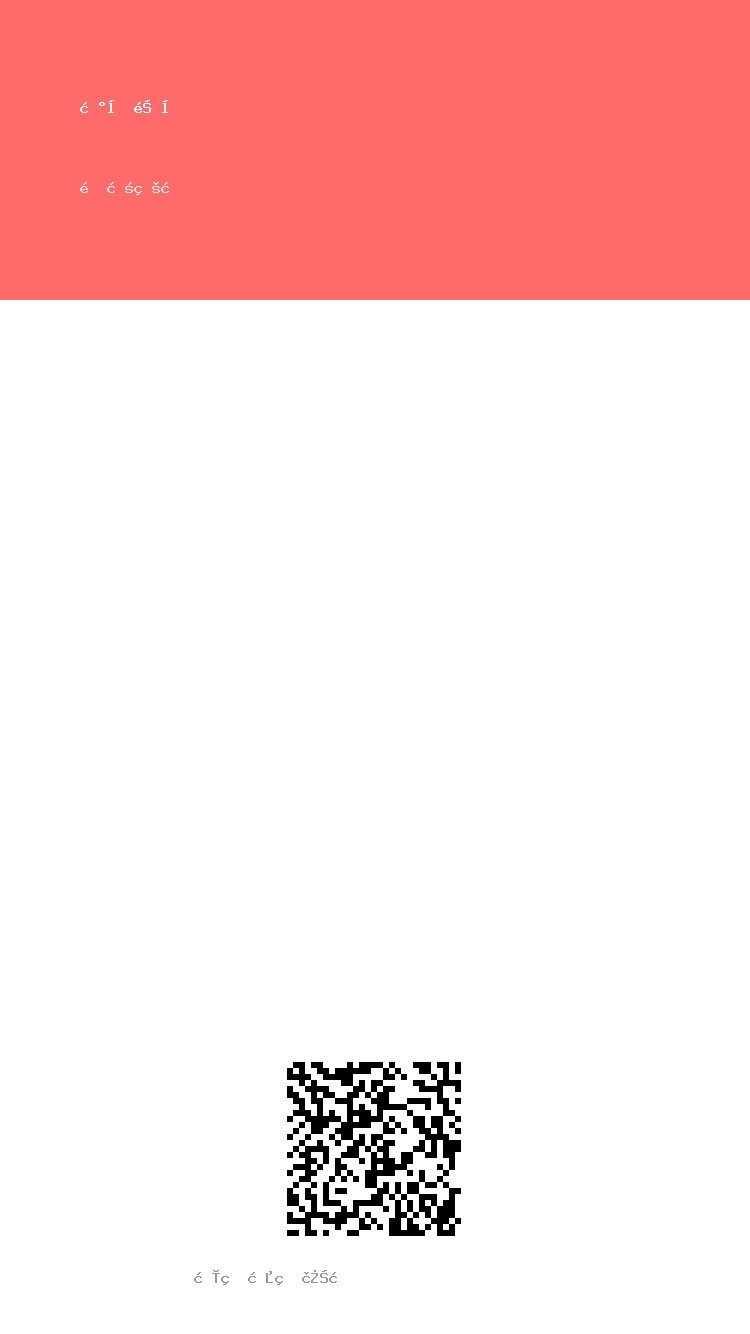
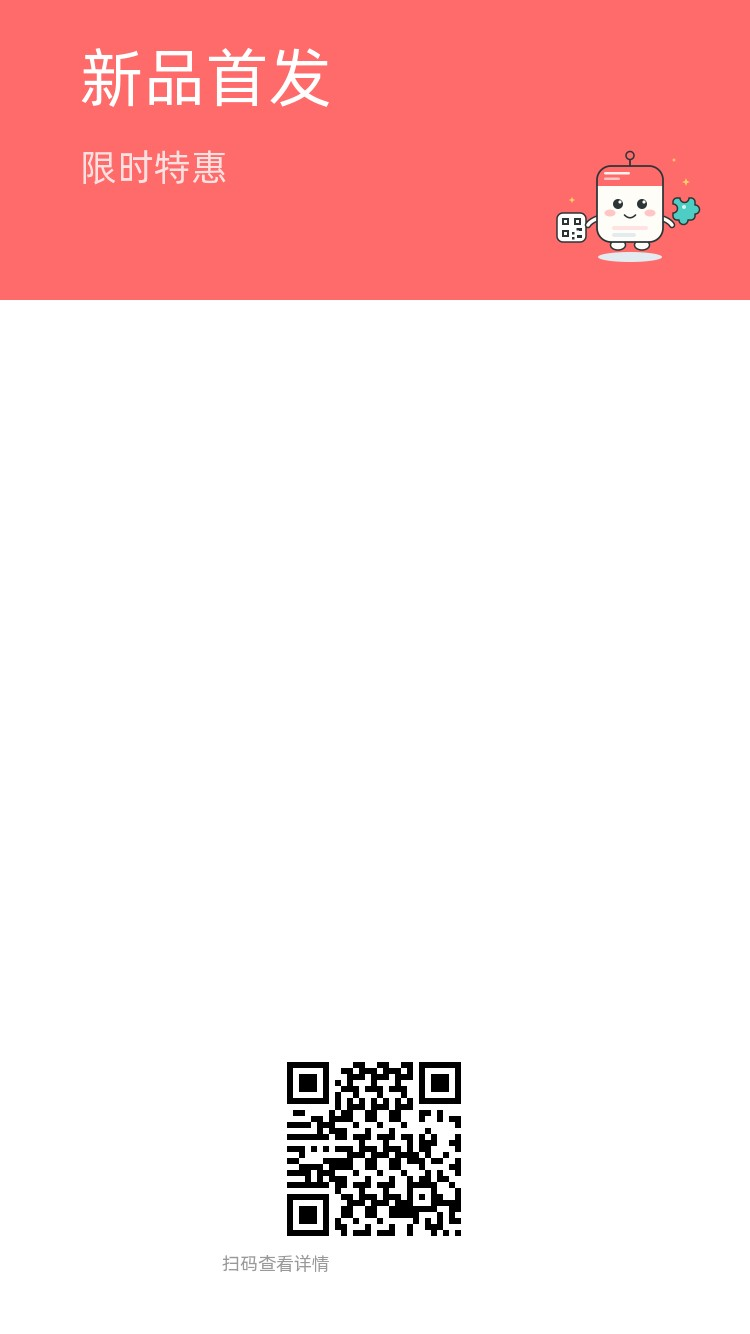
feat: 项目宠物 Posty 随包分发：addPet()、缺图占位图
- assets/pet.svg 与栅格化的 pet.png 随包分发（docs/ 被 export-ignore，放 assets/ 才能进 dist）
- PosterBuilder::addPet() / petPath()：等价 addImage()，也可取路径作二维码 Logo
- AbstractElement::loadImage()：统一缺图回退，配置 poster.placeholder 后
  ImageElement / AvatarElement 会在缺图位置绘制占位图（默认 null，行为不变）
- examples/poster-basic.php 使用 addPet() 并重新生成示例输出

Changed region(s): [[0.3067, 0.7991, 0.6133, 0.9528], [0.092, 0.0307, 0.4293, 0.1537], [0.736, 0.1229, 0.9507, 0.2151]]

diff --git a/tests/Poster/Elements/ImageElementTest.php b/tests/Poster/Elements/ImageElementTest.php
@@ -8,6 +8,7 @@ namespace Erikwang2013\Poster\Tests\Poster\Elements;
 
 use Erikwang2013\Poster\Drivers\ImageDriverInterface;
 use Erikwang2013\Poster\Poster\Elements\ImageElement;
+use Erikwang2013\Poster\PosterConfig;
 use PHPUnit\Framework\TestCase;
 
 class ImageElementTest extends TestCase
@@ -47,5 +48,47 @@ class ImageElementTest extends TestCase
         $el = new ImageElement(['src' => '/img/{{id}}.png']);
         $el->resolve(['id' => '42']);
         $this->assertSame('/img/42.png', $el->toArray()['options']['src']);
+    }
+
+    /** 验证配置占位图后，缺失的 src 回退到占位图，并沿用原尺寸选项 */
+    public function testMissingSourceFallsBackToPlaceholder(): void
+    {
+        $placeholder = $this->tempPng();
+        PosterConfig::merge(['poster' => ['placeholder' => $placeholder]]);
+        try {
+            $canvas = $this->createMock(ImageDriverInterface::class);
+            $canvas->expects($this->once())->method('image')->with(
+                $this->isInstanceOf(ImageDriverInterface::class),
+                6, 7,
+                $this->callback(fn(array $o) => $o['src'] === '/no/such/photo.jpg' && $o['width'] === 120)
+            );
+            (new ImageElement(['src' => '/no/such/photo.jpg', 'x' => 6, 'y' => 7, 'width' => 120]))
+                ->render($canvas);
+        } finally {
+            PosterConfig::reset();
+            unlink($placeholder);
+        }
+    }
+
+    /** 验证占位图本身缺失时仍跳过渲染（不抛错、不调用驱动） */
+    public function testMissingPlaceholderStillRendersNothing(): void
+    {
+        PosterConfig::merge(['poster' => ['placeholder' => '/no/such/placeholder.png']]);
+        try {
+            $canvas = $this->createMock(ImageDriverInterface::class);
+            $canvas->expects($this->never())->method('image');
+            (new ImageElement(['src' => '/no/such/photo.jpg']))->render($canvas);
+        } finally {
+            PosterConfig::reset();
+        }
+    }
+
+    private function tempPng(): string
+    {
+        $path = sys_get_temp_dir() . '/img-el-' . uniqid() . '.png';
+        $img = imagecreatetruecolor(10, 10);
+        imagepng($img, $path);
+        imagedestroy($img);
+        return $path;
     }
 }

diff --git a/src/Poster/Elements/AbstractElement.php b/src/Poster/Elements/AbstractElement.php
@@ -6,6 +6,10 @@
 
 namespace Erikwang2013\Poster\Poster\Elements;
 
+use Erikwang2013\Poster\Drivers\DriverFactory;
+use Erikwang2013\Poster\Drivers\ImageDriverInterface;
+use Erikwang2013\Poster\PosterConfig;
+
 abstract class AbstractElement implements ElementInterface
 {
     protected array $options = [];
@@ -38,5 +42,30 @@ abstract class AbstractElement implements ElementInterface
         return preg_replace_callback('/\{\{\s*(\w+)\s*\}\}/', function ($m) use ($variables) {
             return $variables[$m[1]] ?? $m[0];
         }, $text);
+    }
+
+    /**
+     * 文本字体：未显式指定 font 选项时用配置的 poster.font，显式传 null 则退回驱动内置位图字体。
+     * 自行拼装 text() 选项的元素（表格 / 日历 / 二维码文案 / 艺术字）应走这里，
+     * 否则中英文会落到 GD 内置位图字体而渲染错乱。
+     */
+    protected function font(): ?string
+    {
+        return array_key_exists('font', $this->options)
+            ? $this->options['font']
+            : PosterConfig::get('poster.font');
+    }
+
+    /**
+     * 加载图片文件；文件缺失时回退到 poster.placeholder 配置的占位图
+     * （留空即保持原行为：跳过缺失图片）。占位图也不存在时返回 null。
+     */
+    protected function loadImage(string $src): ?ImageDriverInterface
+    {
+        if (!is_file($src)) {
+            $src = (string) PosterConfig::get('poster.placeholder', '');
+        }
+
+        return is_file($src) ? DriverFactory::create()->load($src) : null;
     }
 }

diff --git a/src/Poster/PosterBuilder.php b/src/Poster/PosterBuilder.php
@@ -55,6 +55,10 @@ class PosterBuilder
 
     public function addText(string $text, array $options = []): static { $this->elements[] = new TextElement(array_merge($options, ['text'=>$text])); return $this; }
     public function addImage(string $src, array $options = []): static { $this->elements[] = new ImageElement(array_merge($options, ['src'=>$src])); return $this; }
+    /** 添加项目宠物 Posty（assets/pet.png），等价于 addImage(self::petPath(), $options) */
+    public function addPet(array $options = []): static { return $this->addImage(self::petPath(), $options); }
+    /** 项目宠物 Posty 图片路径 / Bundled mascot image path */
+    public static function petPath(): string { return dirname(__DIR__, 2) . '/assets/pet.png'; }
     public function addQrcode(string $content, array $options = []): static { $this->elements[] = new QrcodeElement(array_merge($options, ['content'=>$content])); return $this; }
     public function addAvatar(string $src, array $options = []): static { $this->elements[] = new AvatarElement(array_merge($options, ['src'=>$src])); return $this; }
     public function addShape(string $shape, array $options = []): static { $this->elements[] = new ShapeElement(array_merge($options, ['shape'=>$shape])); return $this; }

diff --git a/tests/Poster/PosterBuilderTest.php b/tests/Poster/PosterBuilderTest.php
@@ -53,6 +53,22 @@ class PosterBuilderTest extends TestCase
         $this->assertSame($builder, $builder->addEmoji('😀'));
         $this->assertSame($builder, $builder->addIcon('heart'));
         $this->assertSame($builder, $builder->addEmoticon('happy'));
+        $this->assertSame($builder, $builder->addPet(['x' => 1, 'y' => 2, 'width' => 100]));
+    }
+
+    /** 验证 addPet() 使用随包分发的吉祥物图片，且该文件真实存在 */
+    public function testAddPetUsesBundledMascot(): void
+    {
+        $path = PosterBuilder::petPath();
+        $this->assertFileExists($path);
+
+        $driver = $this->mockDriver();
+        $driver->expects($this->once())->method('create')->with(100, 100);
+        $driver->expects($this->once())->method('image')->with(
+            $this->isInstanceOf(ImageDriverInterface::class), 10, 20,
+            $this->callback(fn(array $o) => $o['src'] === $path && $o['width'] === 60)
+        );
+        (new PosterBuilder($driver))->width(100)->height(100)->addPet(['x' => 10, 'y' => 20, 'width' => 60])->output('png');
     }
 
     /** 验证未设宽高时渲染使用配置默认值 750x1334 */

diff --git a/src/Poster/Elements/ImageElement.php b/src/Poster/Elements/ImageElement.php
@@ -6,7 +6,6 @@
 
 namespace Erikwang2013\Poster\Poster\Elements;
 
-use Erikwang2013\Poster\Drivers\DriverFactory;
 use Erikwang2013\Poster\Drivers\ImageDriverInterface;
 
 class ImageElement extends AbstractElement
@@ -15,9 +14,8 @@ class ImageElement extends AbstractElement
 
     public function render(ImageDriverInterface $canvas): void
     {
-        $src = $this->options['src'] ?? '';
-        if (!is_file($src)) return;
-        $img = DriverFactory::create()->load($src);
+        $img = $this->loadImage($this->options['src'] ?? '');
+        if ($img === null) return;
         $canvas->image($img, intval($this->options['x'] ?? 0), intval($this->options['y'] ?? 0), $this->options);
         $img->destroy();
     }

diff --git a/src/Poster/Elements/AvatarElement.php b/src/Poster/Elements/AvatarElement.php
@@ -6,7 +6,6 @@
 
 namespace Erikwang2013\Poster\Poster\Elements;
 
-use Erikwang2013\Poster\Drivers\DriverFactory;
 use Erikwang2013\Poster\Drivers\ImageDriverInterface;
 
 class AvatarElement extends AbstractElement
@@ -15,10 +14,9 @@ class AvatarElement extends AbstractElement
 
     public function render(ImageDriverInterface $canvas): void
     {
-        $src = $this->options['src'] ?? '';
-        if (!is_file($src)) return;
+        $img = $this->loadImage($this->options['src'] ?? '');
+        if ($img === null) return;
 
-        $img = DriverFactory::create()->load($src);
         $size = intval($this->options['size'] ?? 80);
         $img->resize($size, $size);
 

diff --git a/config/poster.php b/config/poster.php
@@ -116,5 +116,11 @@ return [
         // PNG compression level / PNG 压缩级别 0-9
         // 0 = no compression / 不压缩, 9 = max / 最大压缩
         'png_compression' => 6,
+
+        // 缺失图片的占位图 / Placeholder for missing image files
+        // null = 跳过缺失的图片（默认，不改变既有行为）
+        // 设为内置吉祥物 dirname(__DIR__) . '/assets/pet.png' 可在缺图位置绘制 Posty
+        // null = skip missing images (default); point it at the bundled mascot
+        'placeholder' => null,
     ],
 ];

diff --git a/examples/poster-basic.php b/examples/poster-basic.php
@@ -15,6 +15,7 @@ $builder
     ->addText('新品首发', ['x' => 80, 'y' => 100, 'size' => 48, 'color' => '#FFFFFF'])
     ->addText('限时特惠', ['x' => 80, 'y' => 180, 'size' => 28, 'color' => '#FFE0E0'])
     ->addQrcode('https://example.com', ['x' => 275, 'y' => 1050, 'size' => 200, 'label' => '扫码查看详情'])
+    ->addPet(['x' => 555, 'y' => 140, 'width' => 150, 'height' => 130])  // 内置吉祥物 Posty
     ->save($path);
 
 echo "Poster saved to: $path\n";
